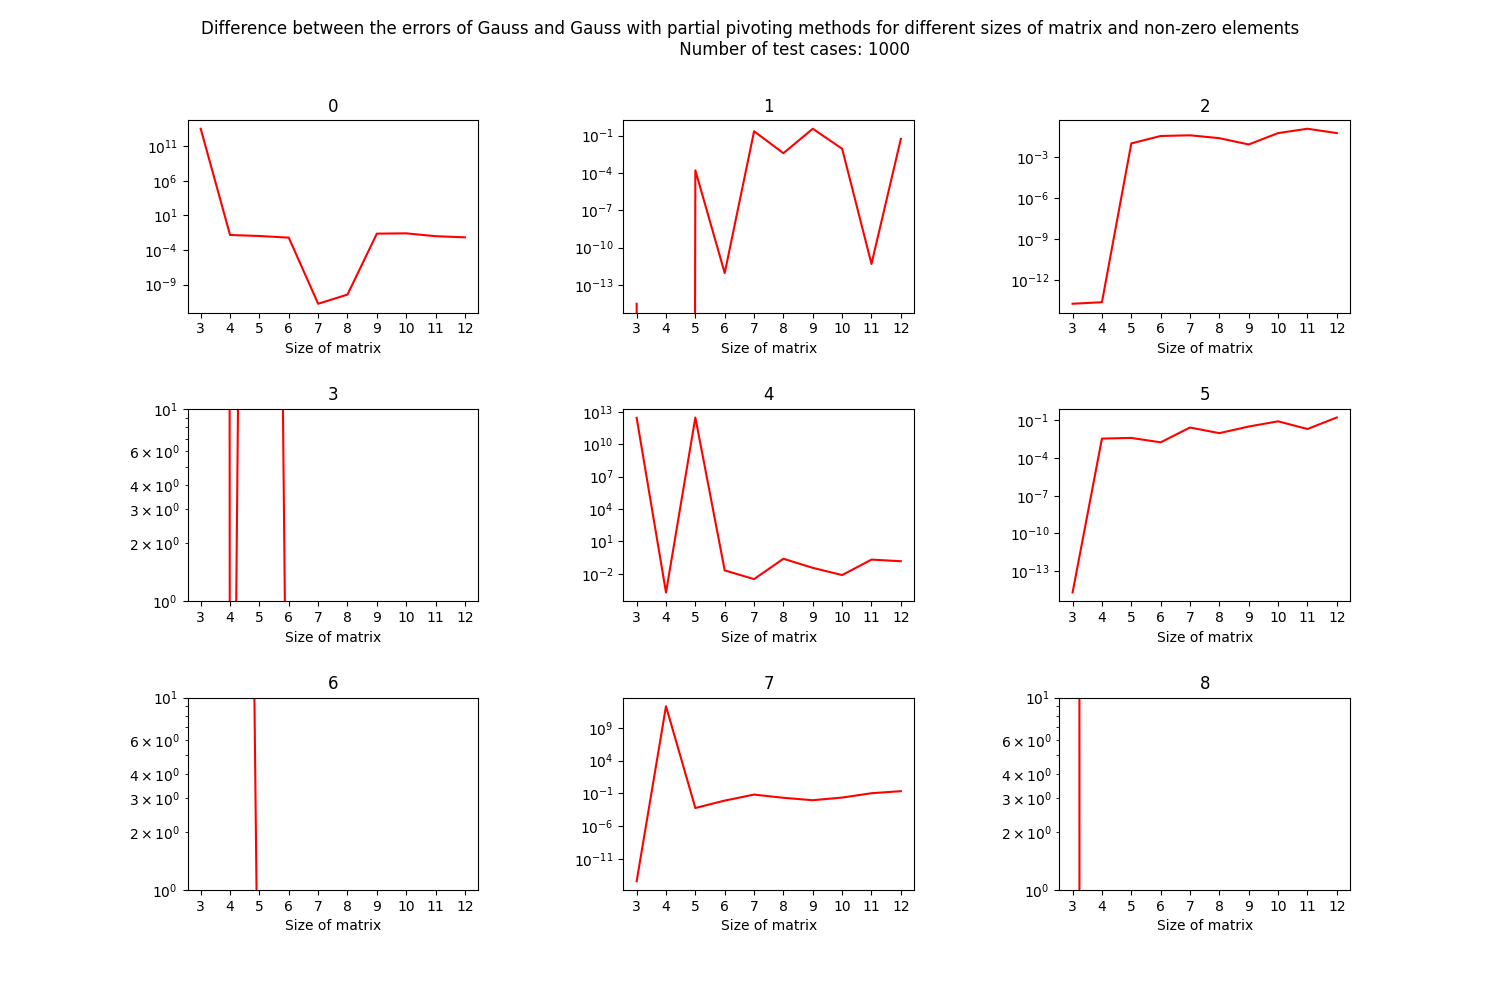
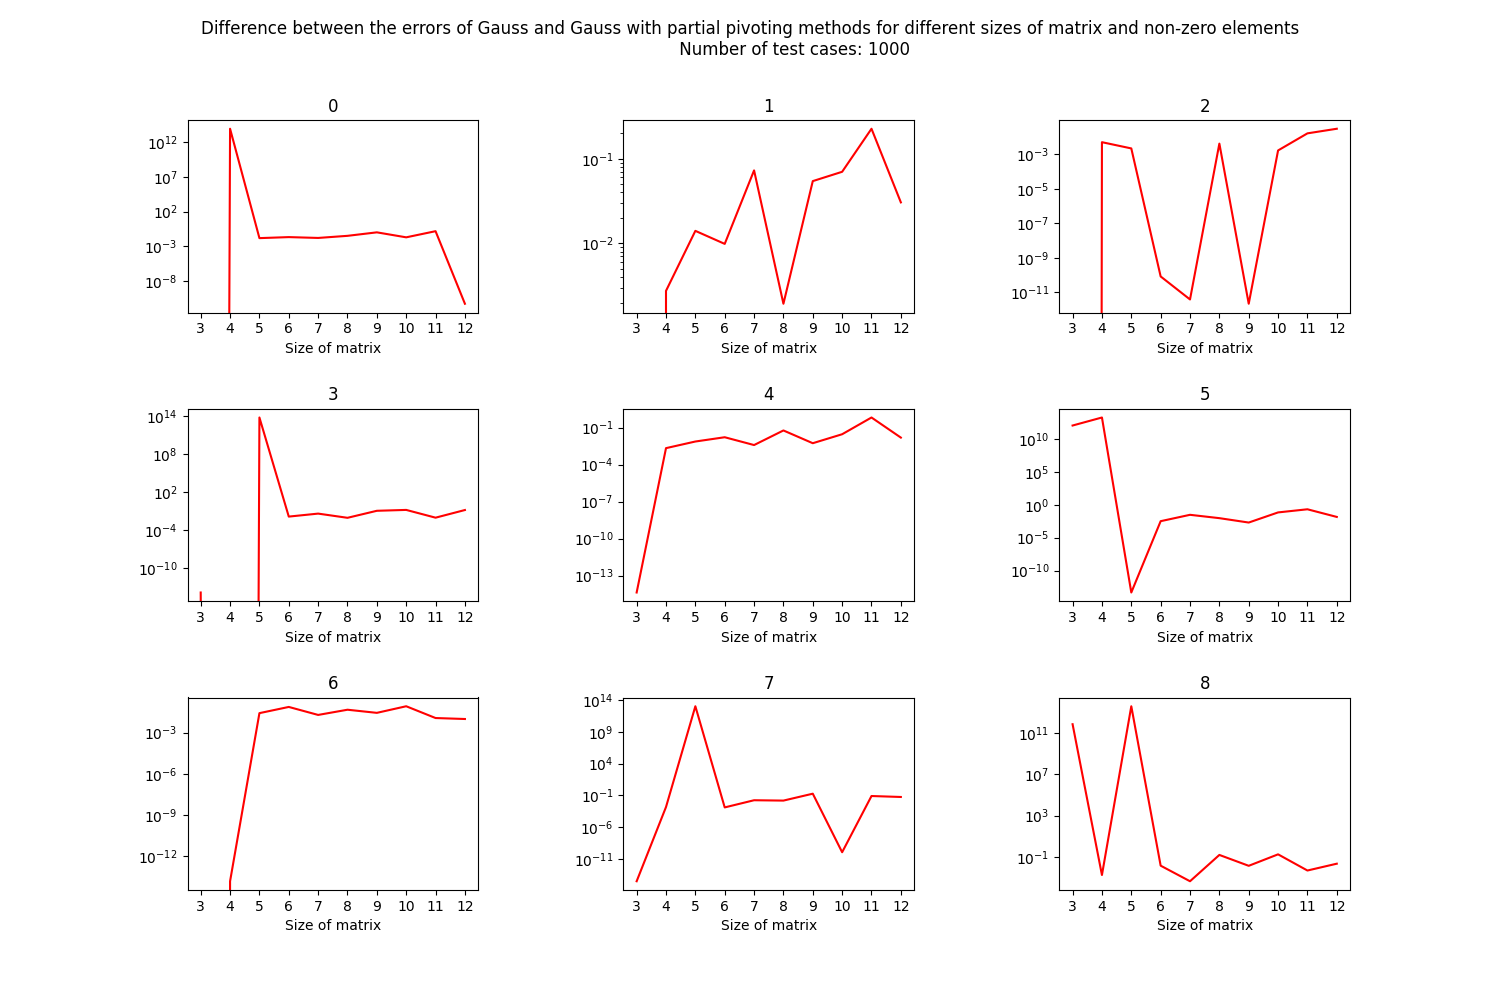
Fixes

diff --git a/hipotezy/main.py b/hipotezy/main.py
@@ -40,7 +40,7 @@ def test_hypothesis_1():
                     if non_zero < non_zero_elements:
                         for i in range(size):
                             for j in range(size):
-                                if matrix[i][j] == 0 and non_zero < non_zero_elements:
+                                if matrix[i][j] == 0 and np.count_nonzero(matrix) < non_zero_elements:
                                     matrix[i][j] = 1
 
                     result_gauss = gauss(matrix, vector)
